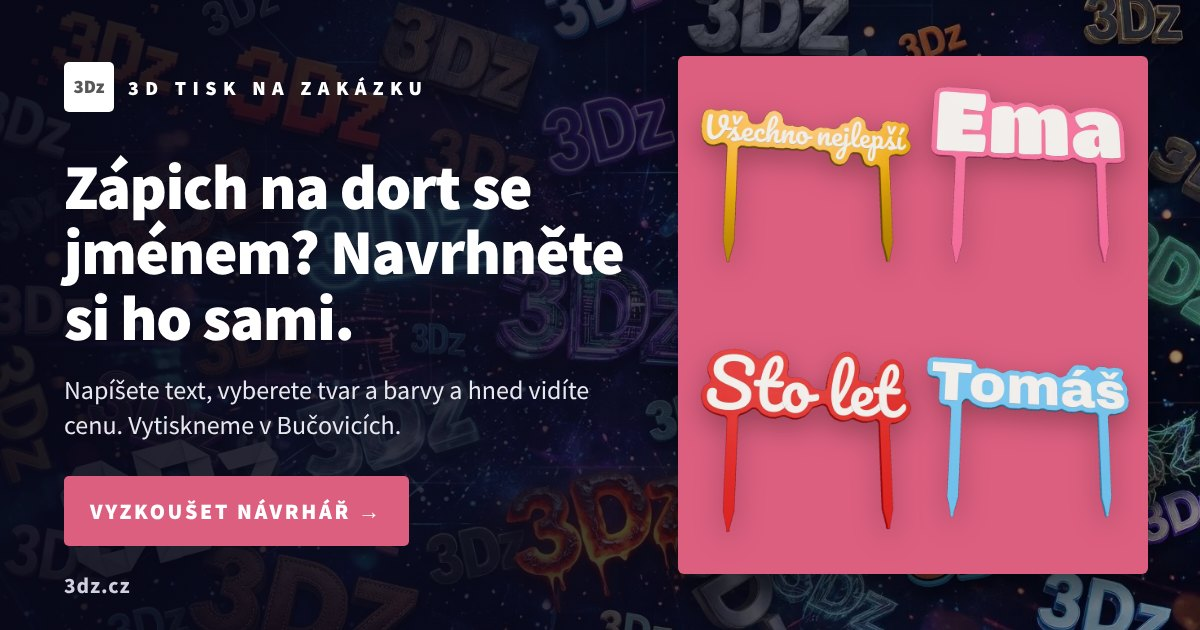
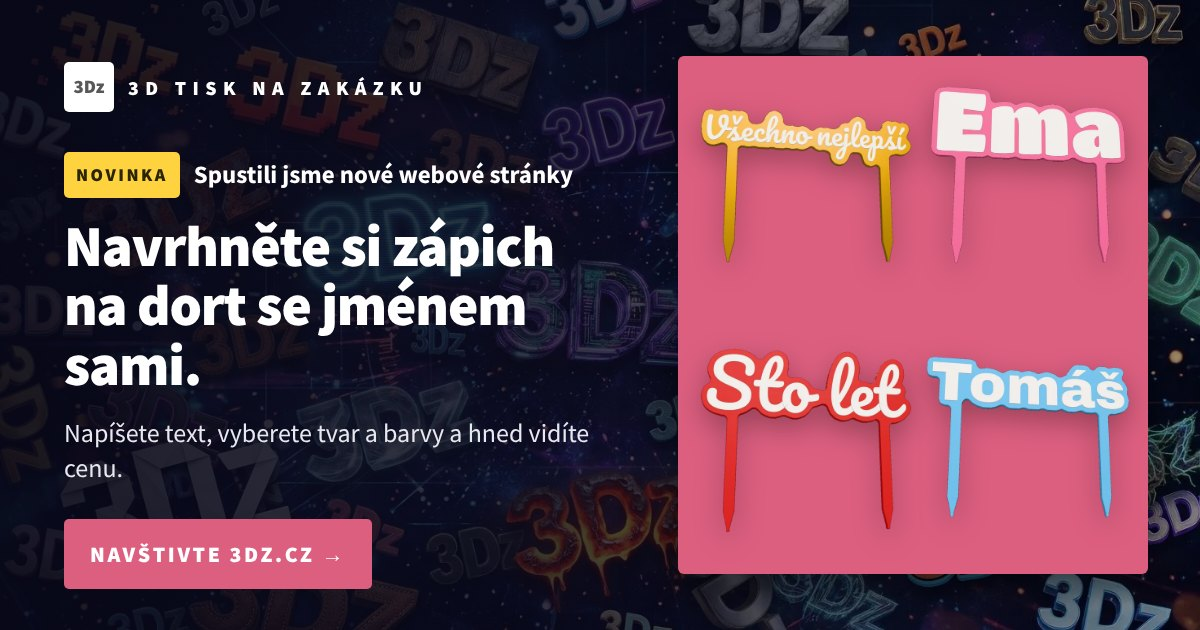
Náhled odkazu: novinka – nové webové stránky
Claude-Session: https://claude.ai/code/session_01TxRnTJutXJ9yL3NMiwTcPM

Changed region(s): [[0.0308, 0.2413, 0.5242, 0.6333], [0.0308, 0.6635, 0.4933, 0.9651]]

diff --git a/index.html b/index.html
@@ -10,7 +10,7 @@
 <meta charset="utf-8">
 <meta name="viewport" content="width=device-width, initial-scale=1, user-scalable=no">
 <meta name="description" content="3Dz – 3D tisk z Bučovic. Navrhněte si vlastní zápich na dort, klíčenku, ozdobu, cedulku nebo dárek se jménem a hned uvidíte cenu.">
-<meta property="og:title" content="3Dz – 3D tisk na zakázku">
+<meta property="og:title" content="Nový web 3Dz – 3D tisk na zakázku">
 <meta property="og:description" content="Zápich na dort, klíčenka nebo ozdoba se jménem. Navrhněte si ho sami a hned vidíte cenu. Vytiskneme v Bučovicích.">
 <meta property="og:type" content="website">
 <meta property="og:image" content="https://3dz.cz/nahled-3dz.jpg">
